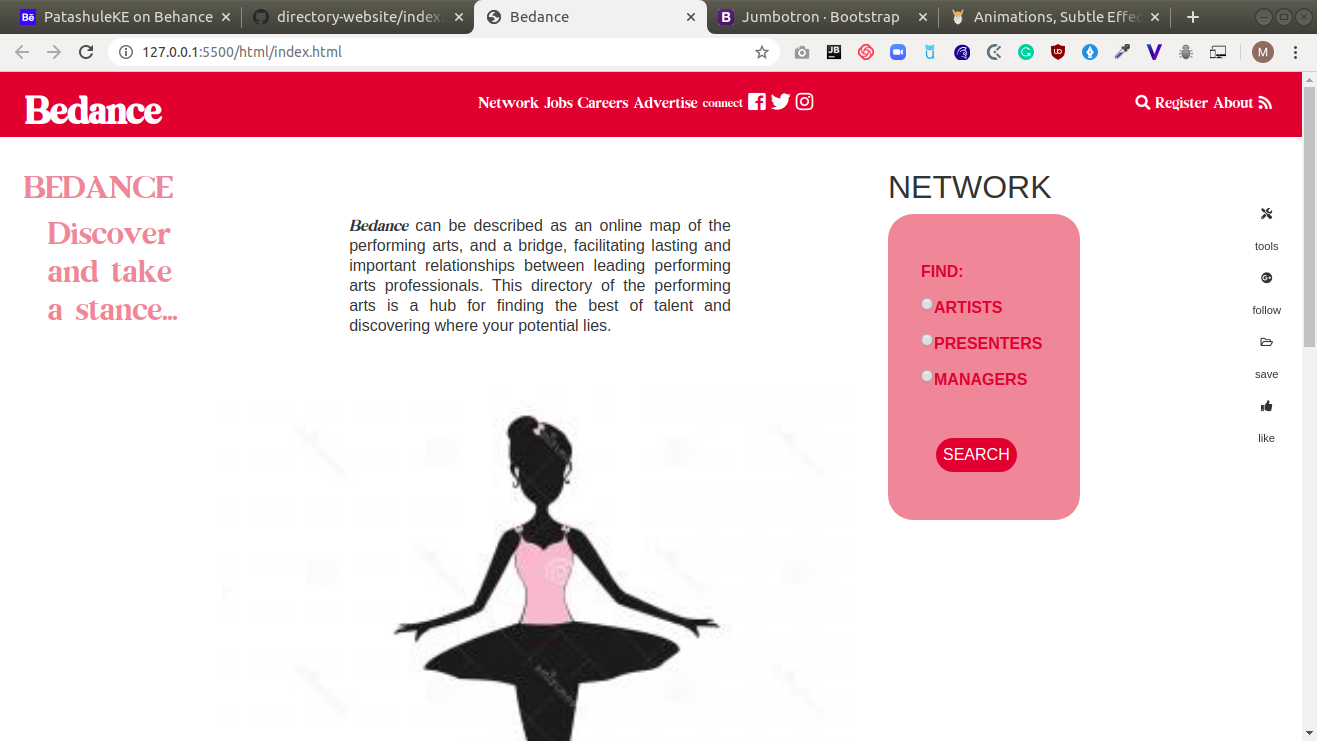
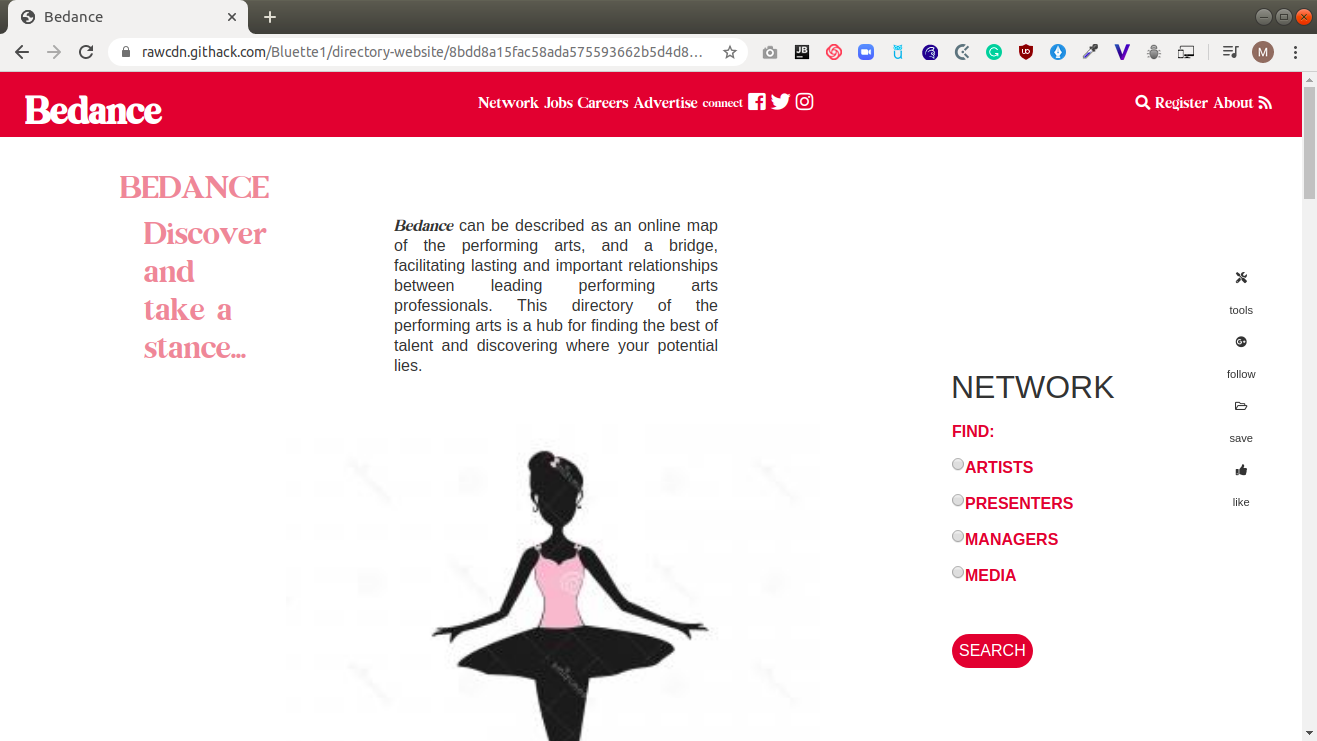
readme update
- readme update
  - demo page update
  - live demo link update

diff --git a/README.md b/README.md
@@ -21,7 +21,7 @@ This project is mainly about designing a website similar to a real-life project 
 
 ## Live Demo
 
-[Live Demo]()
+[Live Demo](https://rawcdn.githack.com/Bluette1/directory-website/8bdd8a15fac58ada575593662b5d4d83bef0b507/html/index.html)
 
 ## Authors
 
